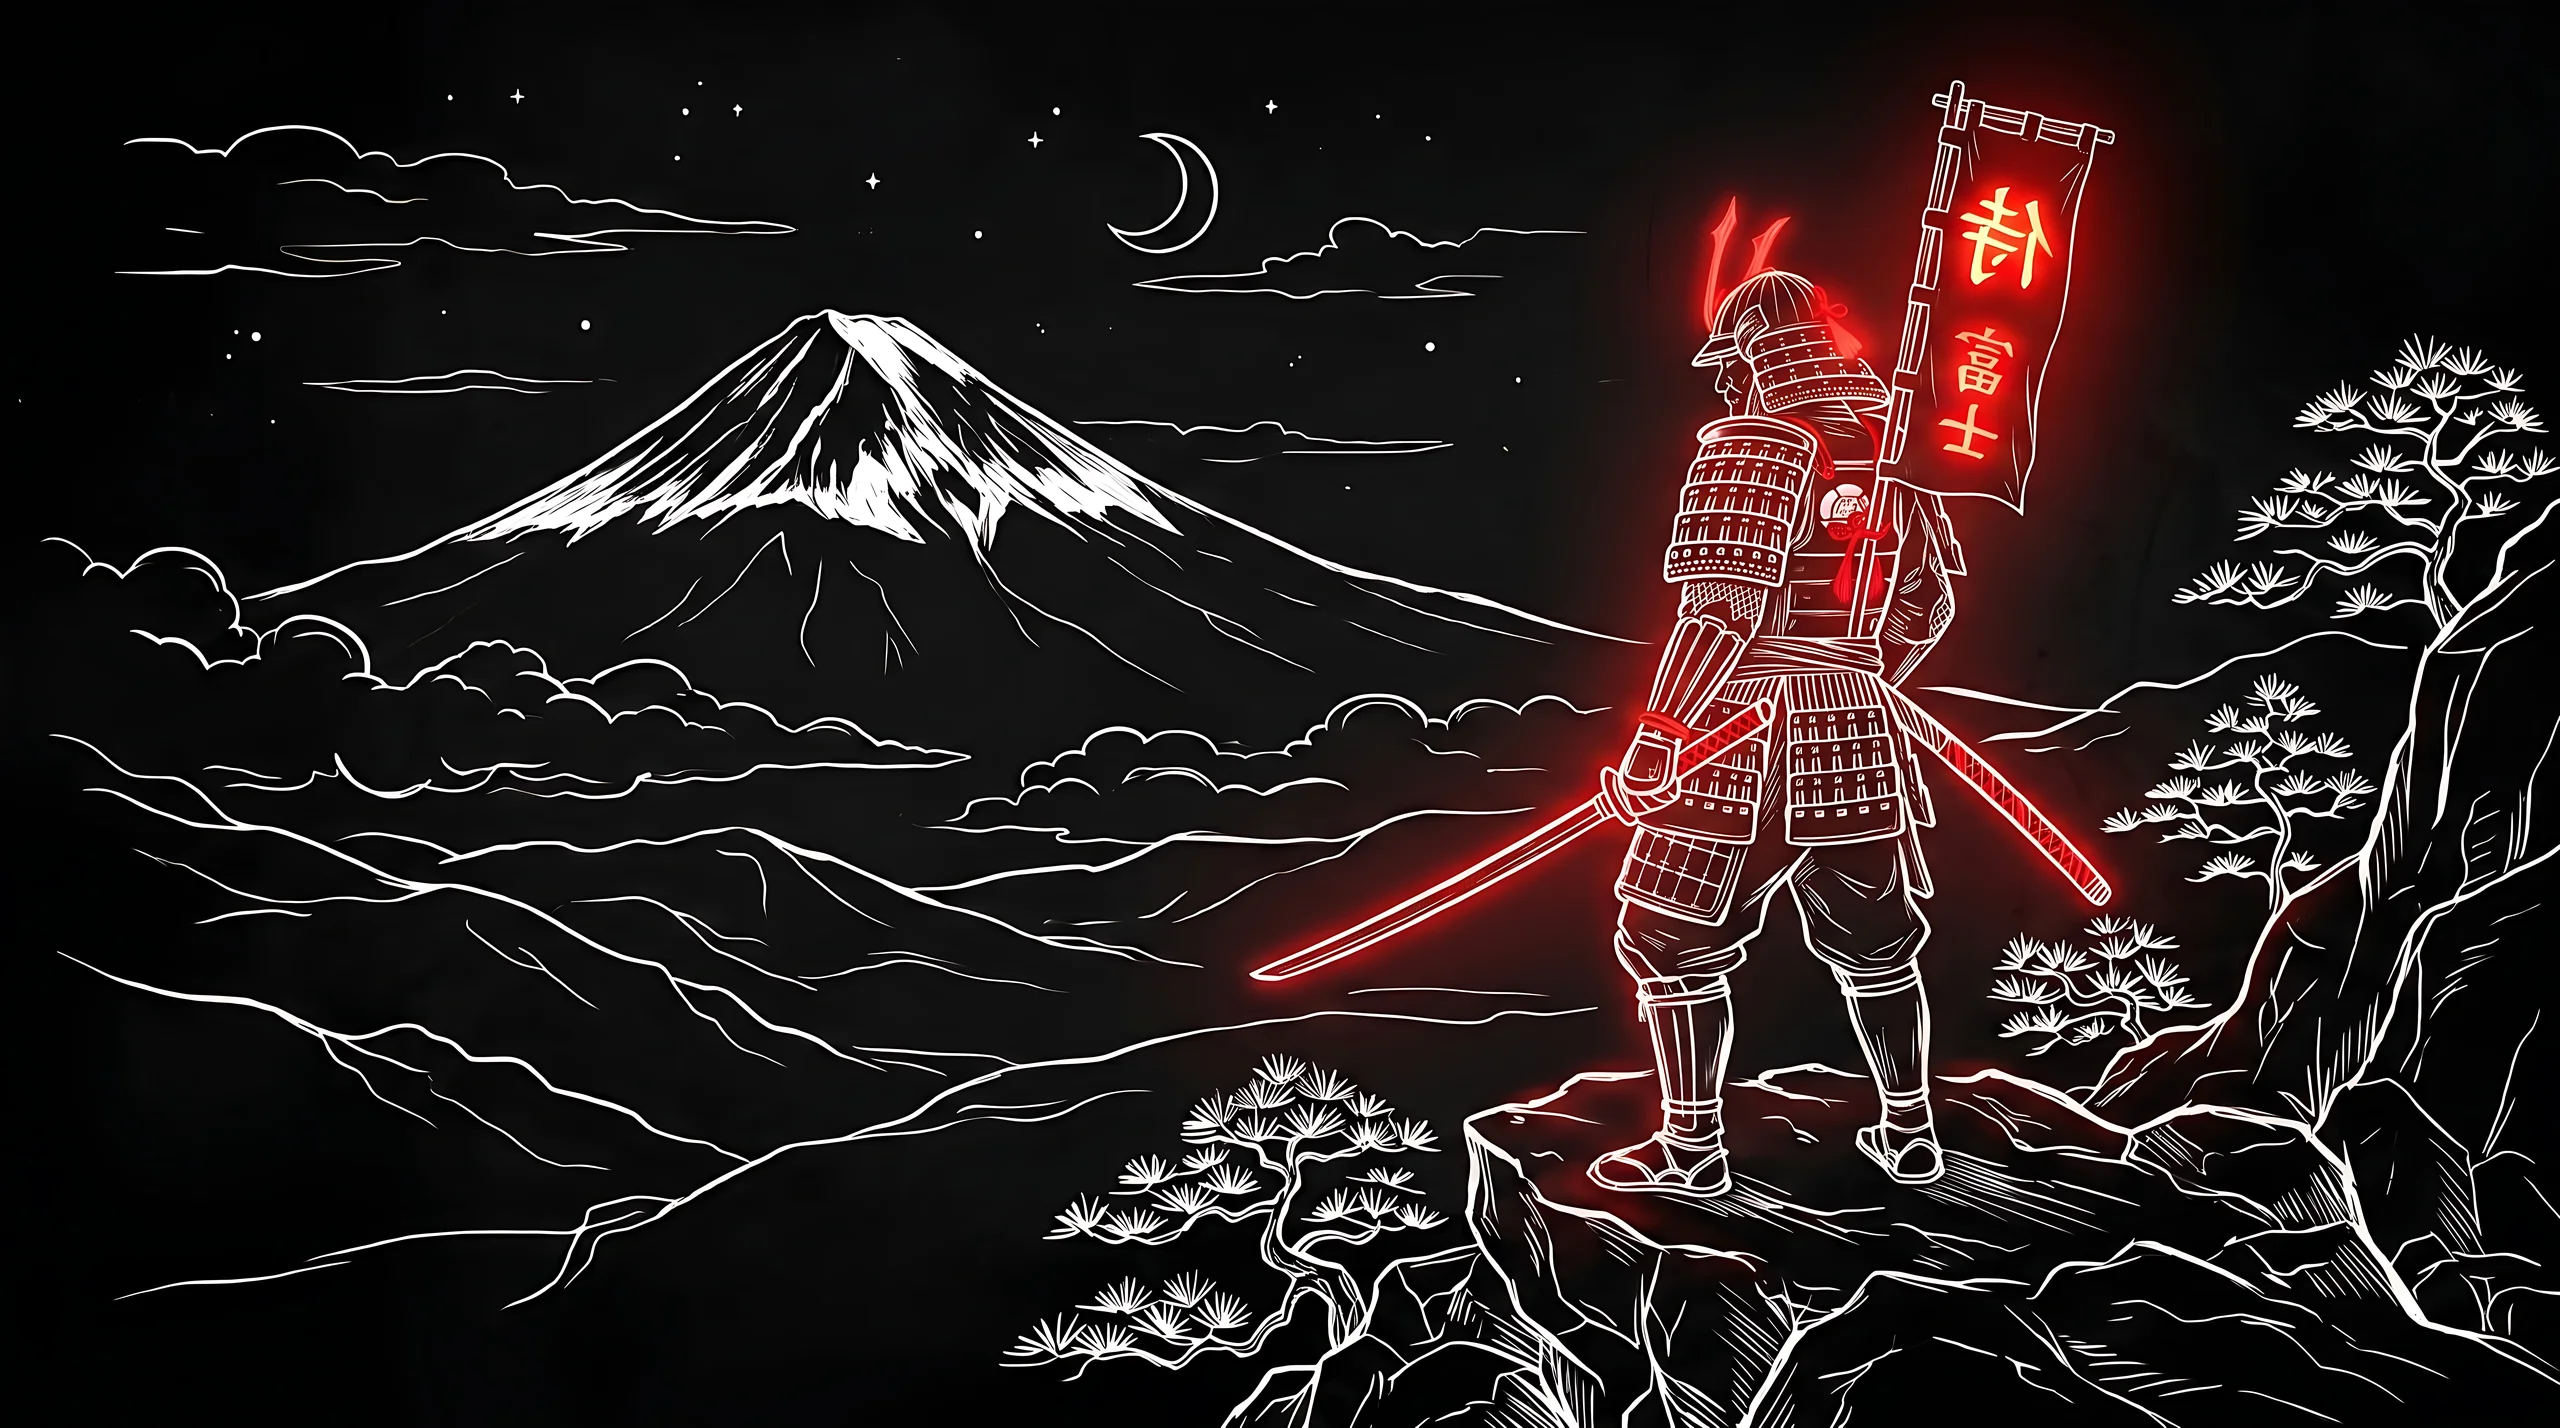
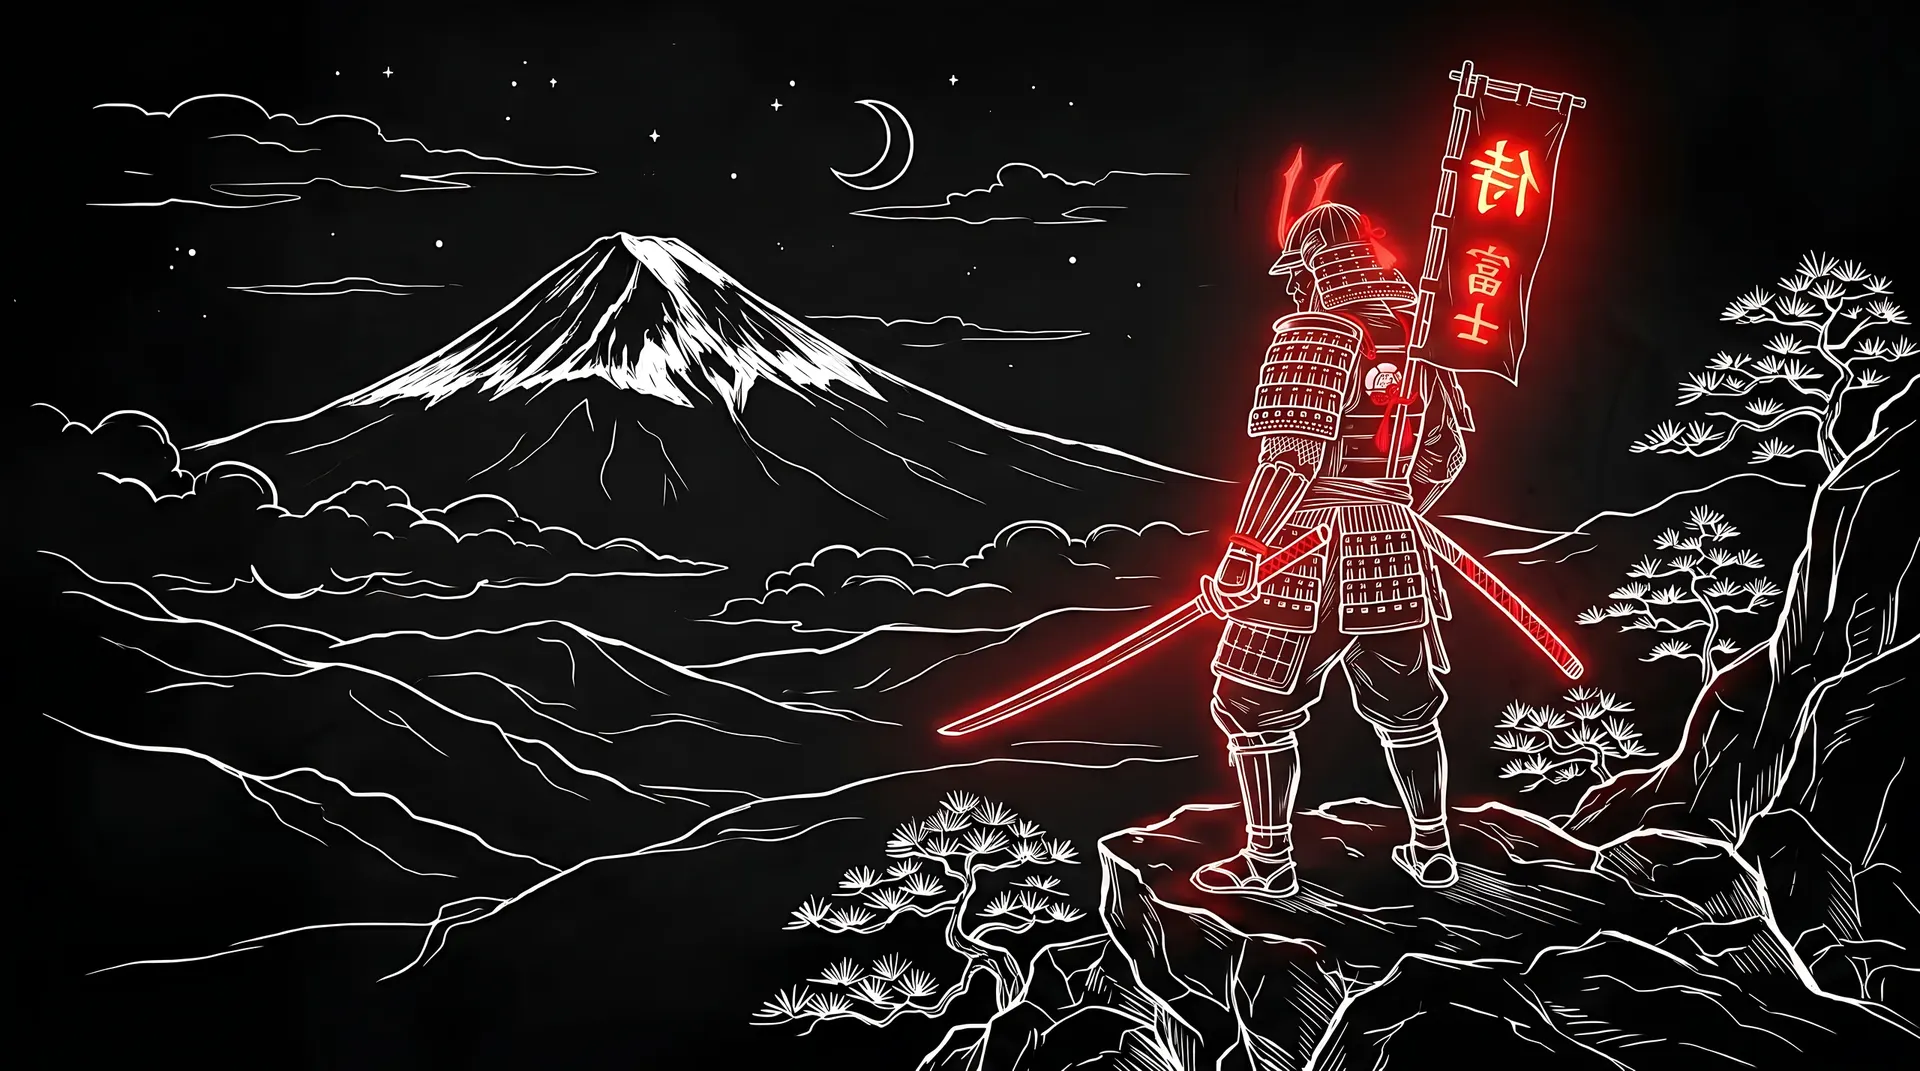
perf: add responsive LCP image preloading and compress hero assets to 72KB/205KB for sub-1s LCP

diff --git a/index.html b/index.html
@@ -8,7 +8,8 @@
   <link rel="preconnect" href="https://fonts.googleapis.com" />
   <link rel="preconnect" href="https://fonts.gstatic.com" crossorigin />
   <link href="https://fonts.googleapis.com/css2?family=Hanken+Grotesk:ital,wght@0,300..900;1,300..900&family=JetBrains+Mono:ital,wght@0,100..800;1,100..800&family=Manrope:wght@200..800&family=Material+Symbols+Outlined:opsz,wght,FILL,GRAD@24,300,0,0&display=swap" rel="stylesheet" />
-  <link rel="preload" as="image" href="hero-bg.webp" type="image/webp" fetchpriority="high" />
+  <link rel="preload" as="image" href="hero-bg-mobile.webp" type="image/webp" media="(max-width: 768px)" fetchpriority="high" />
+  <link rel="preload" as="image" href="hero-bg.webp" type="image/webp" media="(min-width: 769px)" fetchpriority="high" />
   
   <!-- Primary SEO Meta Tags -->
   <title>Atnan | Senior Full-Stack & Progressive Web App (PWA) Developer</title>
